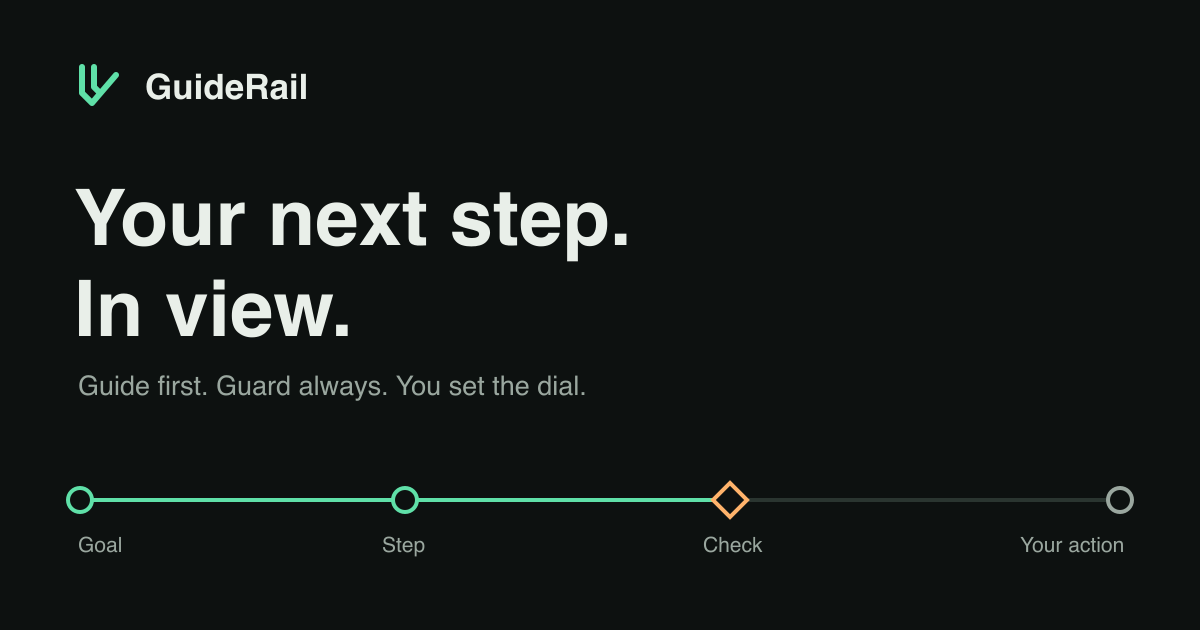
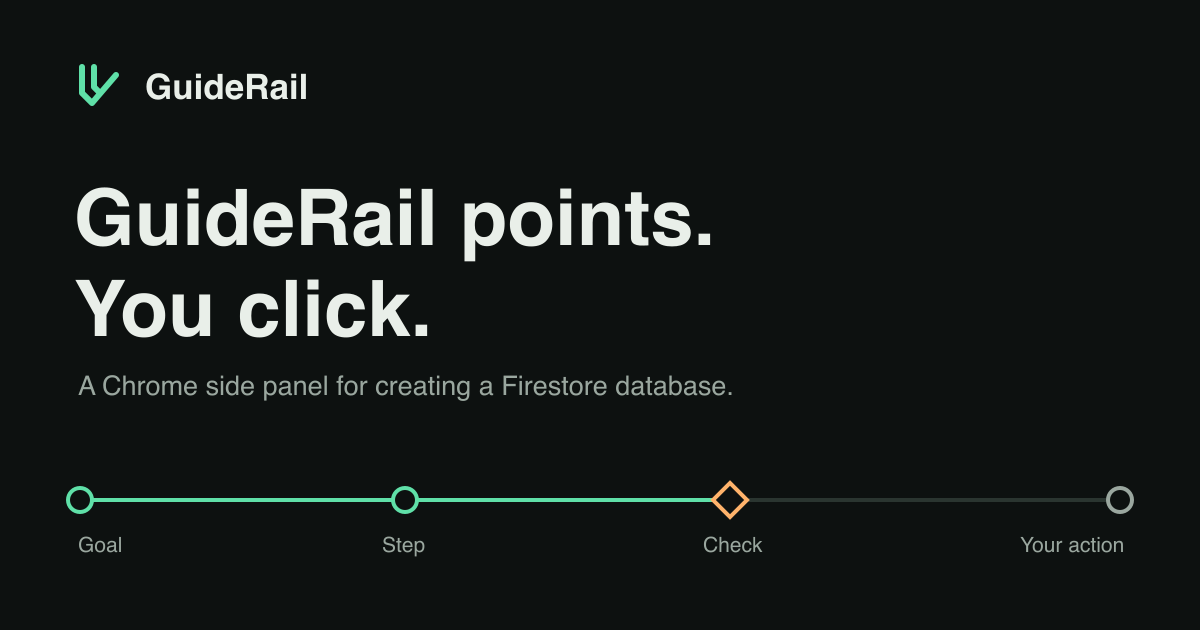
Rewrite landing page copy to say what GuideRail does
Replace the slogans ("Your next step. In view.", "Guide first. Guard
always. You set the dial.") and fragment chains with plain sentences
that name the mechanism: cited Steps, the highlighted control, Assist's
one approved field, the held first Create click. Facts, links, the
download URL and install steps are unchanged. The OG image text is
updated to match.

Changed region(s): [[0.0617, 0.2714, 0.6167, 0.4222], [0.0617, 0.4222, 0.37, 0.5429], [0.0617, 0.573, 0.6167, 0.6333]]

diff --git a/landing/src/content/guiderail.ts b/landing/src/content/guiderail.ts
@@ -19,22 +19,22 @@ export const cta = {
   href: downloadHref,
 } as const;
 
-export const pageTitle = "GuideRail. Your next step, in view.";
+export const pageTitle = "GuideRail. A Chrome coach for creating a Firestore database";
 
 export const pageDescription =
-  "GuideRail walks Create a Firestore database on the Firebase console. Cited Steps, Guide and Assist, and a Rules check. You click Create.";
+  "A Chrome side panel that walks you through creating a Firestore database in the Firebase console, with a Firebase docs citation on every Step. It warns you off Test mode and leaves the Create click to you.";
 
-export const judgeNote = "Judges sign in with the demo login from the deck.";
+export const judgeNote = "Judges, sign in with the demo login from the pitch deck.";
 
 export const installSteps = [
   "Unzip the download.",
   "Open chrome://extensions in Chrome.",
   "Turn on Developer mode.",
-  "Choose Load unpacked and select the unzipped folder that contains manifest.json.",
-  "Click Open GuideRail on the welcome page. It also shows your assigned keyboard shortcut, or how to set one.",
+  "Click Load unpacked and pick the unzipped folder. It's the one with manifest.json inside.",
+  "Click Open GuideRail on the welcome page. It also shows your keyboard shortcut, or how to set one.",
   "Pin GuideRail from the extensions menu.",
-  "Open the Firebase console and start Create a Firestore database.",
-  "Open GuideRail with its toolbar icon or your assigned shortcut, sign in, then type or talk. Typing works without a microphone.",
+  "Open the Firebase console and start creating a Firestore database.",
+  "Click the toolbar icon or press your shortcut. Sign in, then type or talk. You don't need a microphone to type.",
 ] as const;
 
 export const citedControls = [
@@ -51,14 +51,15 @@ export const citedControls = [
 ] as const;
 
 export const hero = {
-  titleLead: "Your next step.",
-  titleRest: "In view.",
-  intro: "A route from the official docs to the field in front of you. Guide first. Guard always. You set the dial.",
-  note: "The flagship Journey creates a Firestore database on the Firebase console. Guide and Assist. A Rules guard. You click Create.",
+  titleLead: "It points.",
+  titleRest: "You click.",
+  intro:
+    "GuideRail is a Chrome side panel. It reads the official Firebase docs and highlights the next control on the real console, with the doc citation beside each Step.",
+  note: "Guide only points. Assist can type the Database ID once you approve, then reads it back. Pick Test mode and GuideRail holds your first Create click. Neither one clicks Create for you.",
   journeyLink: "See the Firestore Journey",
-  figureCaption: "Illustrative Firebase form. Synthetic values. No account connected.",
+  figureCaption: "This is a mock of the Firebase form with made-up values. It isn't connected to any account.",
   staticStory:
-    "Guide outlines Database ID and keeps the Firebase docs citation beside the Step. Assist proposes demo-guide, and an approval fills only that field on this page. Test mode is a Violation because anyone could read and overwrite the data. Production mode clears it. You press Create. The first click during a Violation is held and named. A second click continues anyway. This page sends nothing.",
+    "Guide outlines the Database ID field and keeps the Firebase docs citation next to the Step. Assist proposes demo-guide. When you approve, it fills that one field on this page. Test mode is a Violation because anyone could read and overwrite the data, and Production mode clears it. You press Create. If a Violation is showing, GuideRail holds your first click and names the Rule. A second click goes through anyway. This page sends nothing.",
 } as const;
 
 export const content: LandingContent = {
@@ -68,8 +69,8 @@ export const content: LandingContent = {
   cta,
   route: {
     id: "route",
-    heading: "Follow the rail",
-    lede: "Goal, cited Steps, a Rules check, then Done.",
+    heading: "The Journey in four stops",
+    lede: "Goal, cited Steps, Rules check, then you click Create.",
     stops: [
       {
         title: "Goal",
@@ -79,12 +80,12 @@ export const content: LandingContent = {
       {
         title: "Cited Steps",
         tone: "step",
-        paragraphs: ["The docs name the control. The open page confirms it."],
+        paragraphs: ["Each Step names a control from the docs. GuideRail finds it on the page."],
       },
       {
         title: "Rules check",
         tone: "check",
-        paragraphs: ["Test mode is a Violation. Production mode clears it."],
+        paragraphs: ["Test mode is a Violation. Production mode is fine."],
       },
       {
         title: "Done",
@@ -95,84 +96,84 @@ export const content: LandingContent = {
   },
   journey: {
     id: "journey",
-    heading: "The Firestore Journey",
-    lede: "Green is the way forward. Yellow asks you to check. Red is a Violation, and only a Violation.",
+    heading: "How the Firestore Journey runs",
+    lede: "Green means carry on and yellow means look first. Red is kept for Violations and nothing else.",
     stops: [
       {
         title: "Goal",
         tone: "go",
         paragraphs: [
-          "Create a Firestore database. You choose the Firebase project. GuideRail opens the databases catalog and walks that wizard.",
-          "Guide speaks or writes one Step at a time. Assist proposes a Database ID and types it into that one field only after you approve, then reads it back. Neither mode clicks Create.",
+          "You pick the Firebase project. GuideRail opens its databases page and walks you through the create wizard.",
+          "Guide gives you one Step at a time, out loud or in text. Assist also suggests a Database ID. Once you approve, it types the ID into that one field and reads it back. Neither mode clicks Create.",
         ],
       },
       {
         title: "Cited Steps",
         tone: "step",
         paragraphs: [
-          "The Journey is compiled from the Firebase manage-databases and locations docs before the voice session. Each Step names one control, in the order below.",
-          "Database ID uses 4 to 63 lowercase letters, numbers, and hyphens. It starts with a letter, ends with a letter or number, and is not shaped like a UUID. Leave it blank and Standard edition uses (default). A deleted ID waits about five minutes before reuse. A project can hold 100 databases. The location cannot be changed after creation. Creating a database needs roles/datastore.owner, permission datastore.databases.create.",
-          "If the doc names a control and the page does not show it, the coach says so and keeps the citation.",
+          "Before the voice session starts, GuideRail builds the Journey from two Firebase docs, Manage databases and Cloud Firestore locations. Each Step names one control, in this order.",
+          "The docs set the rules for the ID. It is 4 to 63 lowercase letters, numbers and hyphens, starts with a letter, ends with a letter or number, and can't look like a UUID. Leave it blank and Standard edition uses (default). After you delete a database, its ID takes about five minutes to free up. A project can hold 100 databases. You can't move a database to another location after you create it. Creating one needs roles/datastore.owner, which carries the datastore.databases.create permission.",
+          "If the docs name a control the page doesn't show, the coach tells you and keeps the citation up.",
         ],
       },
       {
         title: "Rules check",
         tone: "check",
         paragraphs: [
-          "Test mode allows anyone to read and overwrite your data. That choice is a Violation. The control gets a red outline and the Rule text stays on screen. Production mode clears it.",
-          "The first Create click during a Violation is held and named. A second click continues anyway. The guard is a warning in the extension. It does not replace Cloud IAM.",
+          "Test mode lets anyone read and overwrite your data, so picking it is a Violation. GuideRail outlines that option in red and keeps the Rule text on screen. Switch to Production mode and it clears.",
+          "While a Violation is showing, GuideRail holds your first Create click and names the Rule. Click again and it goes through. The guard is a warning inside the extension. It doesn't replace Cloud IAM.",
         ],
       },
       {
         title: "Done",
         tone: "done",
         paragraphs: [
-          "You click Create. The extension never clicks or sends. In Assist it types into one field, Database ID, only after you approve, then reads it back. On the illustration below, Assist fills demo-guide the same way.",
+          "You click Create. The extension never clicks or sends anything. In the demo below, Assist fills demo-guide into Database ID the same way it does on the console.",
         ],
       },
     ],
   },
   faq: {
     id: "trust",
-    heading: "Your control is part of the product",
-    lede: "This website does not ask for a microphone, a camera, or a Google account.",
+    heading: "What GuideRail will and won't do",
+    lede: "This website doesn't ask for your microphone, your camera or a Google account.",
     items: [
       {
         question: "Who clicks Create?",
         answer:
-          "You do. Guide highlights the Step and cites the doc. In Assist, the extension types into the Database ID field only after you approve, then reads it back. It never clicks or sends. You always click Create.",
+          "You do, every time. Guide highlights the Step and cites the doc. Assist types into the Database ID field after you approve and reads it back. That is the only field it touches, and it never clicks or sends.",
       },
       {
         question: "What is a Violation?",
         answer:
-          "A Rule whose check fails against what is on screen. In this Journey, Test mode is a Violation because anyone could read and overwrite the data. Production mode clears it. Red is reserved for that state.",
+          "A Rule that fails against what's on screen. In this Journey, Test mode is a Violation because anyone could read and overwrite the data. Production mode clears it. GuideRail uses red for Violations and nothing else.",
       },
       {
         question: "Does a failed check lock Create?",
         answer:
-          "The first Create click is held and named. A second click continues anyway. The console stays available, and the click is still yours.",
+          "No. GuideRail holds your first click and names the Rule. Click again and it goes through. The console never locks.",
       },
       {
         question: "Where do I practice before a real project?",
         answer:
-          "The hosted coach serves labelled practice pages. They are copies for the extension, not the Firebase console, and they are not this illustration.",
+          "On the labelled practice pages the hosted coach serves. They're copies built for the extension to run on. They aren't the Firebase console, and they aren't the demo on this page.",
       },
       {
         question: "Is the form on this page the Firebase console?",
         answer:
-          "No. It is an illustration with synthetic values. Nothing you type here is sent. The extension Journey runs on the real Firebase console after you load it.",
+          "No. It's a mock with made-up values, and nothing you type in it leaves the page. Once you load the extension, the Journey runs on the real Firebase console.",
       },
     ],
   },
   close: {
-    heading: "A route you can understand. A decision that stays yours.",
-    lede: "Guide first. Guard always. You set the dial.",
+    heading: "Open the Firebase console and press Cmd+Shift+K.",
+    lede: "Ctrl+Shift+K if you're not on a Mac. Judges sign in with the demo login from the pitch deck.",
   },
-  footer: "GuideRail. A Chrome extension. Guide first. Guard always. You set the dial.",
+  footer: "GuideRail is a Chrome extension that coaches you through creating a Firestore database.",
 };
 
 export const nav = [
-  { href: "#journey", label: "Journey" },
+  { href: "#journey", label: "How it works" },
   { href: "#install", label: "Install" },
-  { href: "#trust", label: "Your control" },
+  { href: "#trust", label: "Questions" },
 ];

diff --git a/landing/src/scripts/hero.ts b/landing/src/scripts/hero.ts
@@ -39,13 +39,13 @@ export function startExample(root: HTMLElement): void {
     testChoice.classList.toggle("broken", broken);
     if (broken) {
       state.className = "status-word stop";
-      stateText.textContent = "Violation. Check before Create.";
-      caption.textContent = "This choice breaks a Rule.";
+      stateText.textContent = "Violation. Look before you click Create.";
+      caption.textContent = "Test mode breaks a Rule.";
       return;
     }
     state.className = mode === "guide" ? "status-word go" : "status-word check";
-    stateText.textContent = mode === "guide" ? "Guide. You act." : "Assist. Review the proposal.";
-    caption.textContent = mode === "guide" ? "Find the field. Keep the choice." : "A little help, with your approval.";
+    stateText.textContent = mode === "guide" ? "Guide. You type and click." : "Assist. Check the proposed value.";
+    caption.textContent = mode === "guide" ? "GuideRail points. You type." : "GuideRail can type the ID if you approve.";
   };
 
   const setMode = (next: Mode) => {
@@ -57,8 +57,8 @@ export function startExample(root: HTMLElement): void {
     stopPlan.disabled = false;
     coachCopy.textContent =
       next === "guide"
-        ? "You enter the value. The citation stays beside the Step."
-        : "Assist asks before it changes the text field. This page does not change the Firebase console.";
+        ? "You type the value. The docs citation stays next to the Step."
+        : "Assist asks before it touches the text field. Nothing on this page reaches the Firebase console.";
     paint();
   };
 
@@ -68,7 +68,7 @@ export function startExample(root: HTMLElement): void {
     void idField.offsetWidth;
     idField.classList.add("motion-pulse");
     caption.textContent = "Database ID is the next Step.";
-    coachCopy.textContent = "The outlined field is the current target. Type a value yourself, or switch to Assist.";
+    coachCopy.textContent = "That outlined field is the one to fill. Type a value, or switch to Assist.";
   });
 
   guide.addEventListener("click", () => setMode("guide"));
@@ -76,24 +76,24 @@ export function startExample(root: HTMLElement): void {
 
   approve.addEventListener("click", () => {
     if (selectedMode() === "test") {
-      coachCopy.textContent = "Plan paused. Clear the Violation before approving a fill.";
+      coachCopy.textContent = "Paused. Switch to Production mode before you approve the fill.";
       return;
     }
     dbId.value = "demo-guide";
     idField.classList.add("highlight");
-    coachCopy.textContent = "Read-back matches demo-guide. You choose the mode and click Create.";
+    coachCopy.textContent = "The field reads back demo-guide. Now pick a mode and click Create.";
     approve.disabled = true;
   });
 
   stopPlan.addEventListener("click", () => {
     proposal.hidden = true;
-    coachCopy.textContent = "Plan stopped. A value already in the field stays there.";
+    coachCopy.textContent = "Stopped. Anything already in the field stays there.";
   });
 
   root.querySelectorAll<HTMLInputElement>('[name="db-mode"]').forEach((input) => {
     input.addEventListener("change", () => {
       held = false;
-      createResult.textContent = "The final action remains yours.";
+      createResult.textContent = "The last click is yours.";
       paint();
     });
   });
@@ -103,12 +103,12 @@ export function startExample(root: HTMLElement): void {
     if (broken && !held) {
       held = true;
       createResult.textContent =
-        "First click held. Test mode is a Violation. Choose Production mode, or click again to continue anyway. This page sends nothing.";
+        "First click held, because Test mode is a Violation. Switch to Production mode, or click again to go ahead anyway. This page sends nothing.";
       return;
     }
     createResult.textContent = broken
-      ? "A second click would continue despite the Violation. This page sends nothing."
-      : "You made the final click. This page sends nothing.";
+      ? "On the real console, this second click would go ahead despite the Violation. This page sends nothing."
+      : "You clicked Create. This page sends nothing.";
   });
 
   reset.addEventListener("click", () => {
@@ -117,8 +117,8 @@ export function startExample(root: HTMLElement): void {
     if (production) production.checked = true;
     held = false;
     idField.classList.remove("highlight", "motion-pulse");
-    createResult.textContent = "The final action remains yours.";
+    createResult.textContent = "The last click is yours.";
     setMode("guide");
-    caption.textContent = "Start with the field. Understand it as you go.";
+    caption.textContent = "Press Show the Step to start.";
   });
 }
